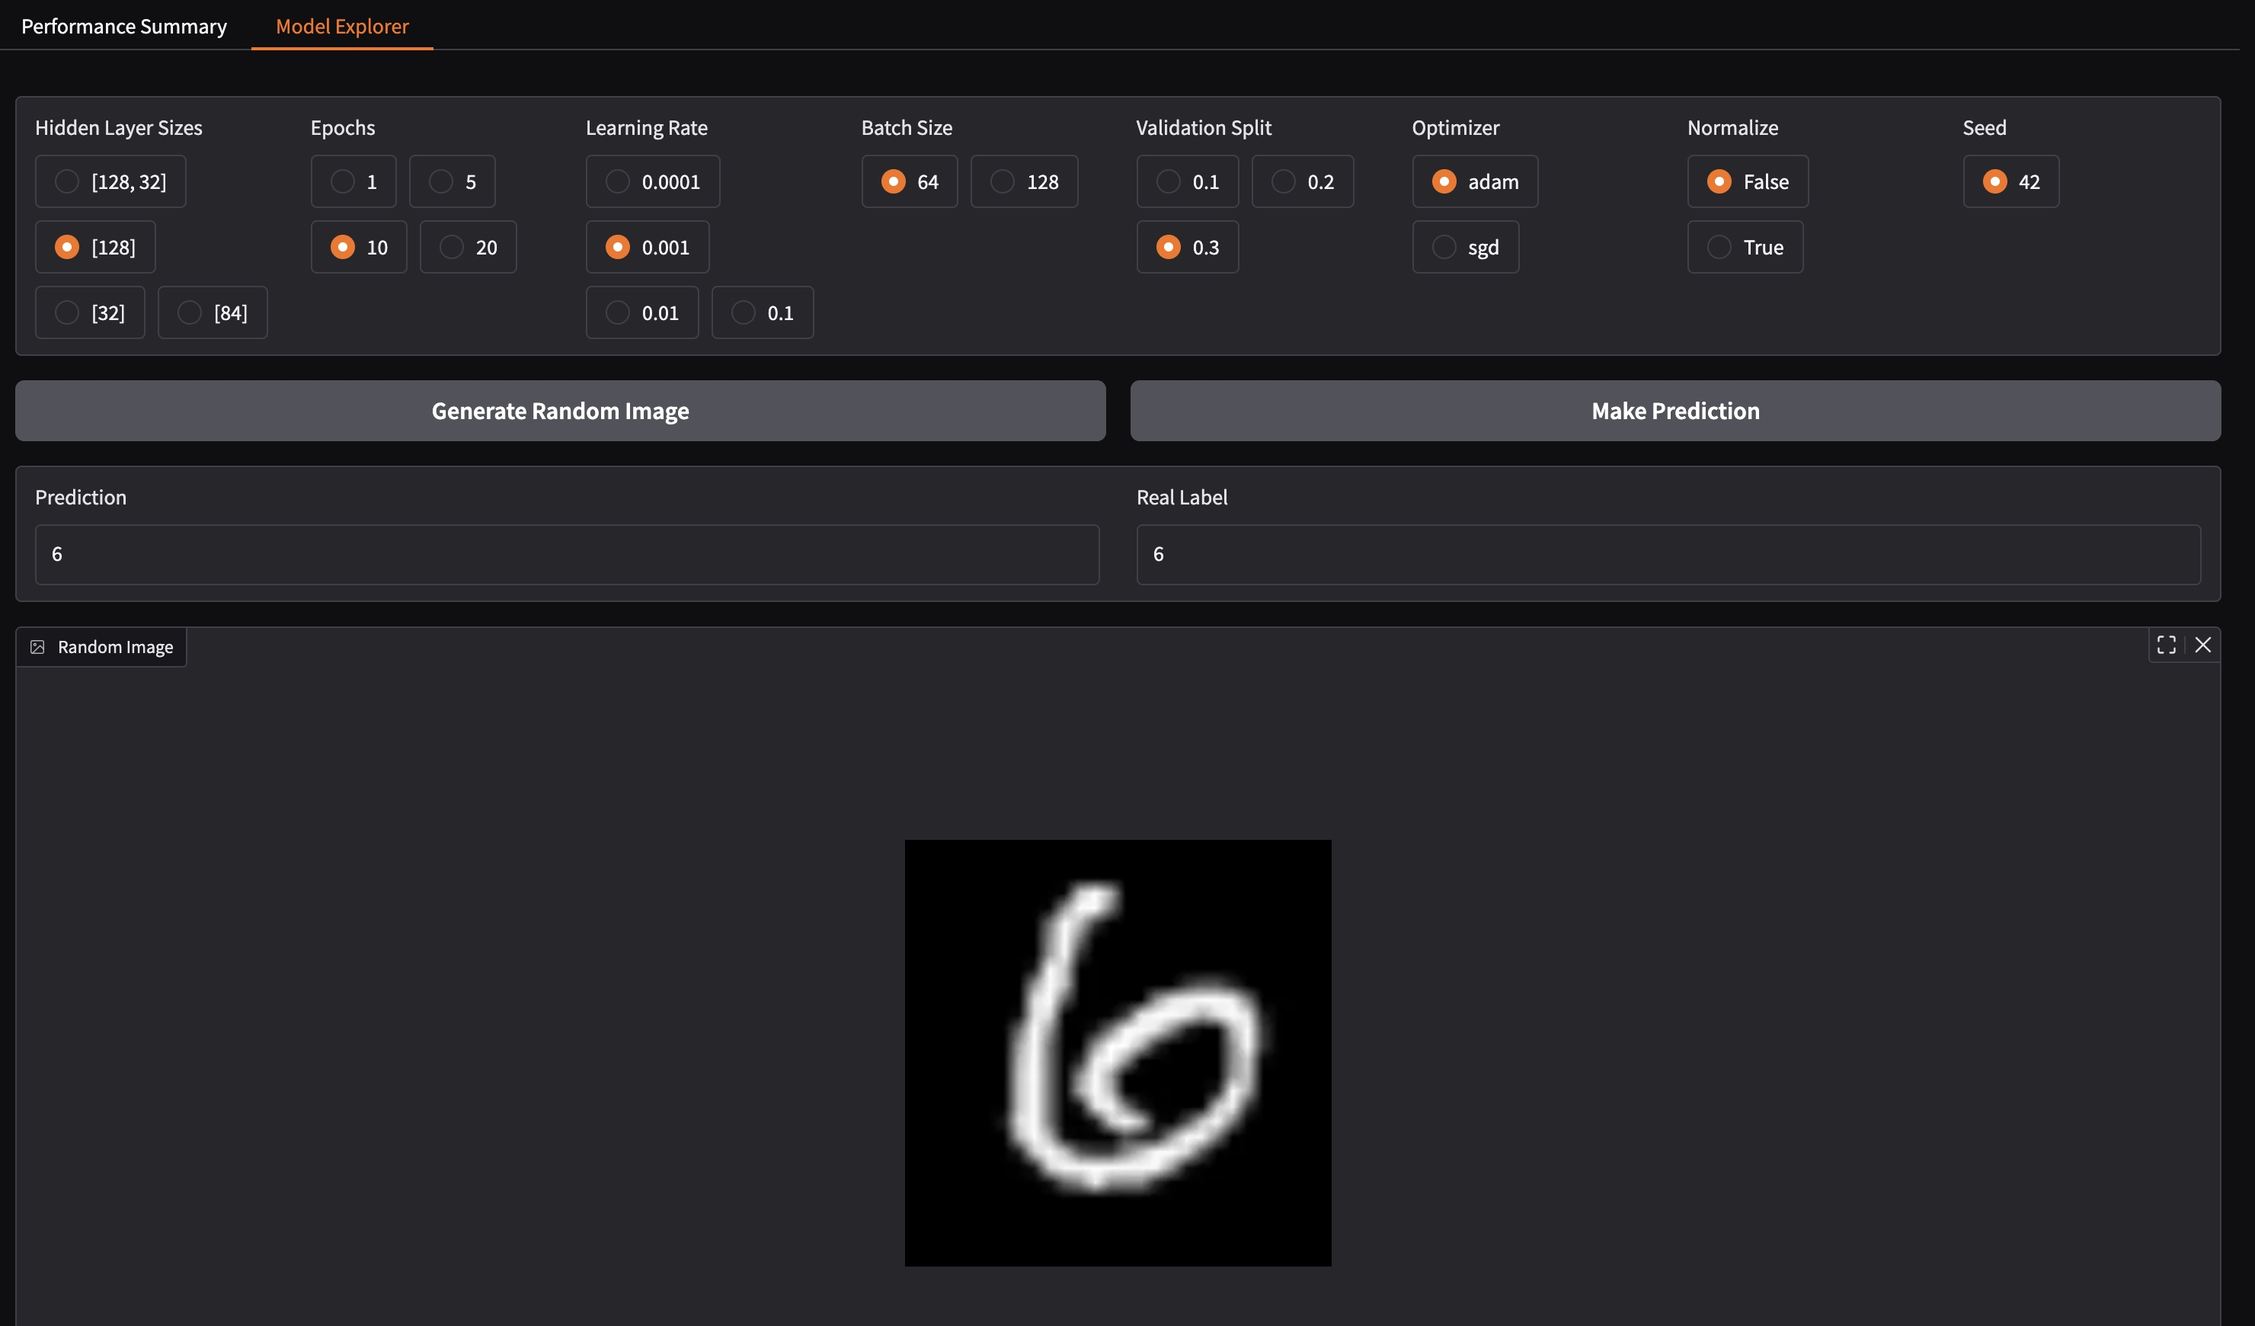
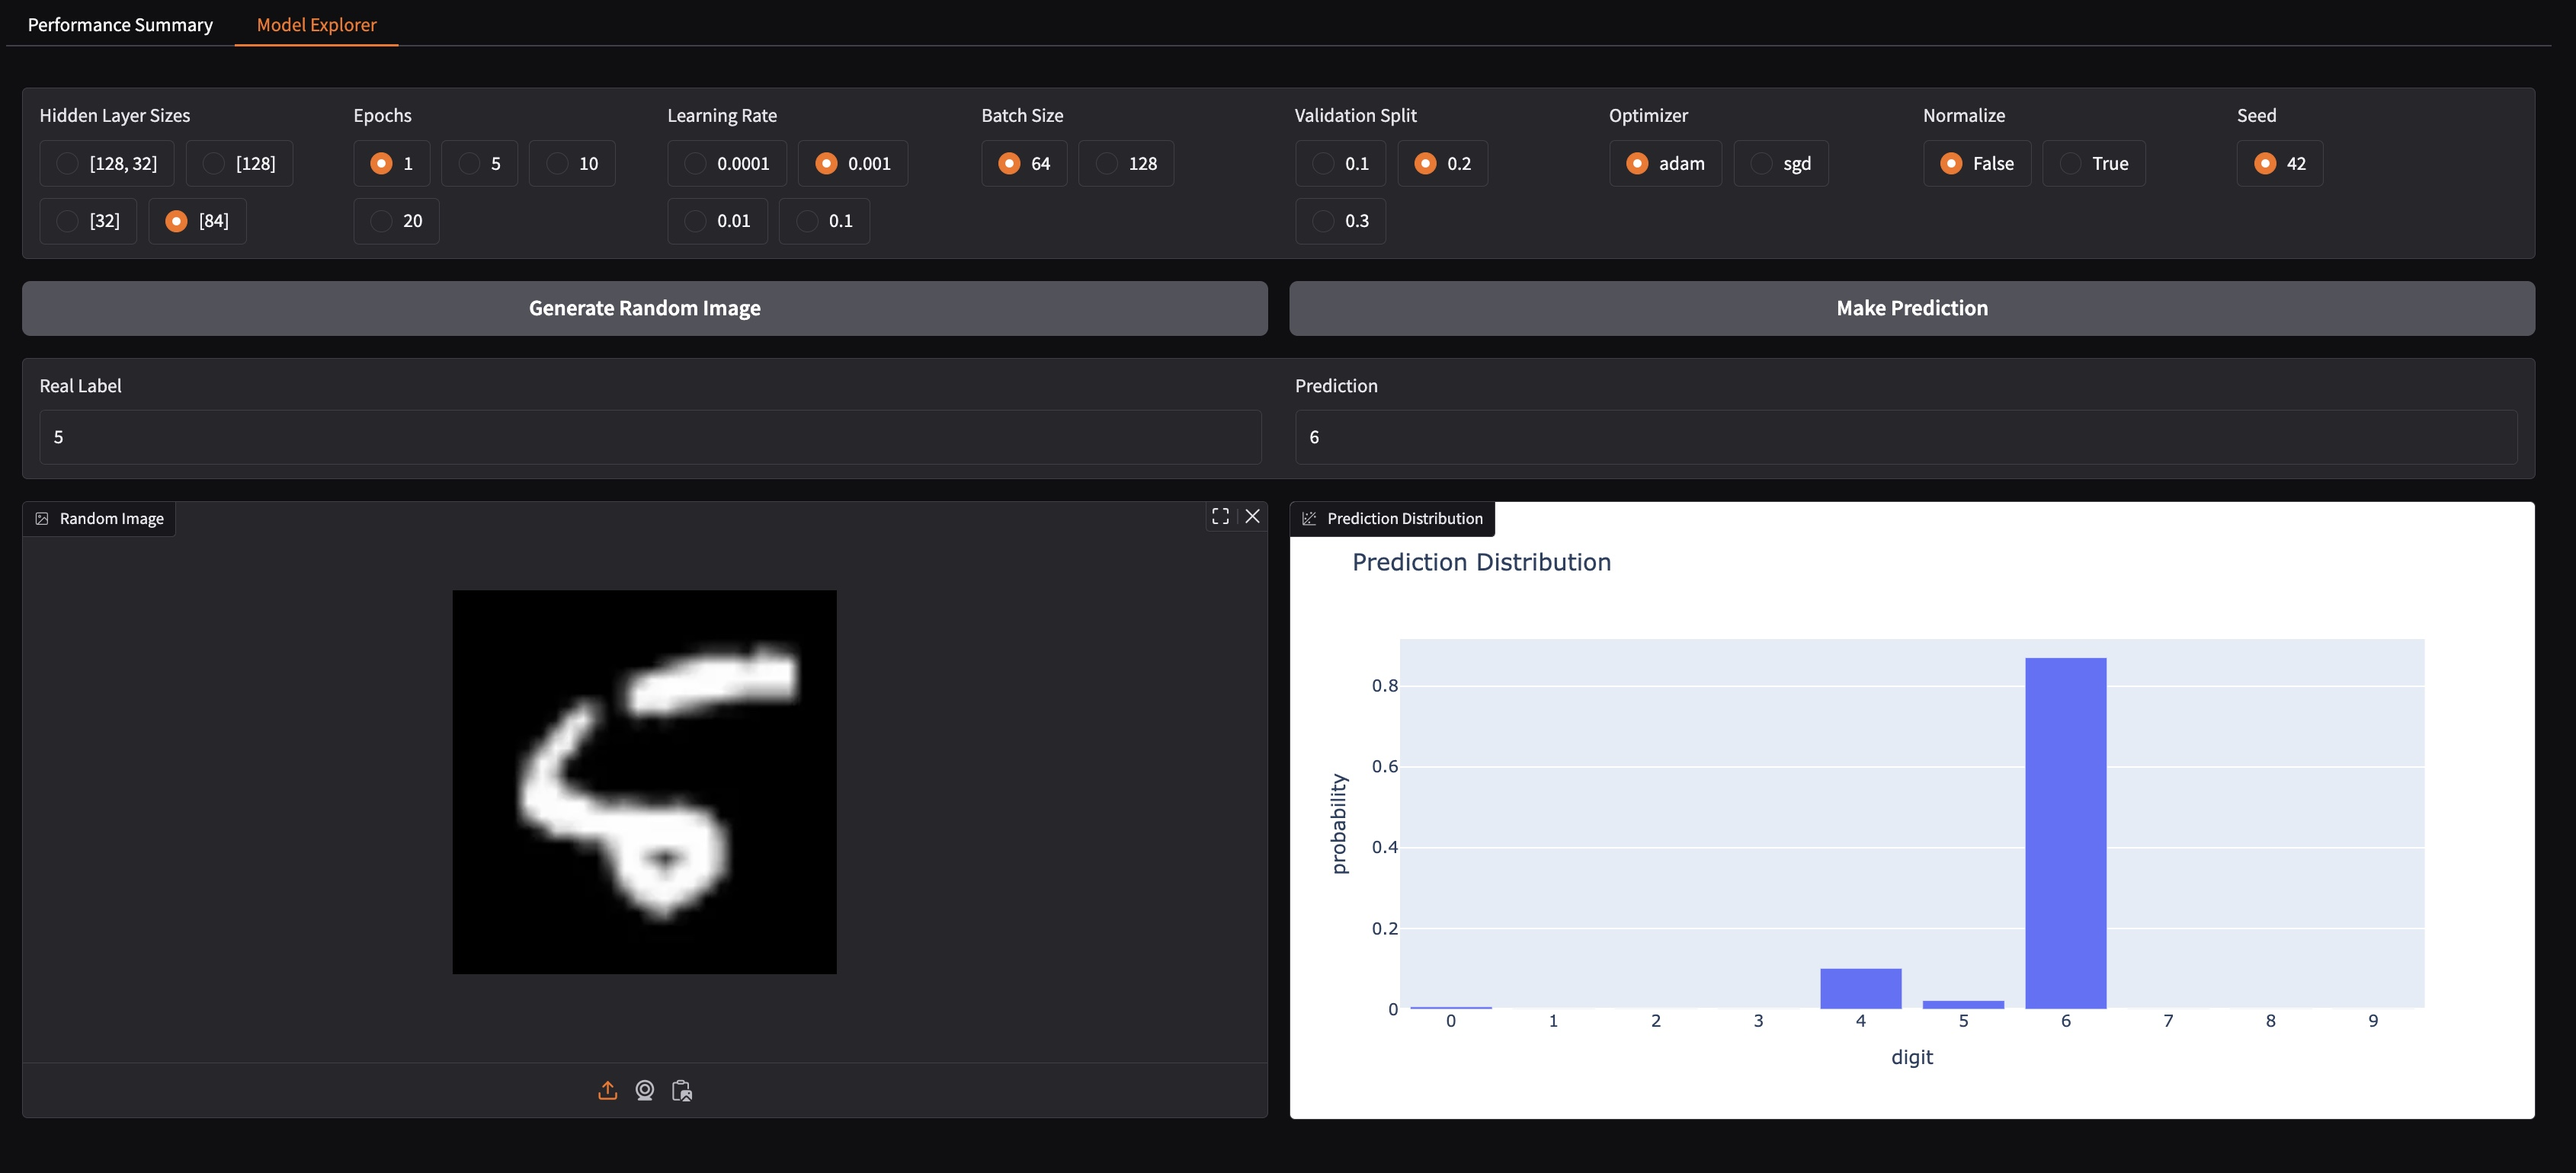
Add prediction distribution plot to model explorer and fix bug where predictions were > 9

diff --git a/app.py b/app.py
@@ -139,9 +139,9 @@ class ModelStore:
         x = transforms.Resize(size=(28 * scaling_factor, 28 * scaling_factor))(x)
         return x.squeeze().numpy(), y.squeeze().numpy(), None
 
-    def make_prediction(self, image, hls, epochs, lr, bs, wv, opt, norm, seed):
+    def make_prediction_dist(self, image, hls, epochs, lr, bs, wv, opt, norm, seed):
         """
-        Make a prediction on the provided image using the specified model.
+        Make prediction distribution for the provided image using the specified model.
         """
         hls_ints = [int(i) for i in hls.removeprefix('[').removesuffix(']').split(',')]
         hls_str = "-".join(str(i) for i in hls_ints)
@@ -160,7 +160,30 @@ class ModelStore:
 
         model.eval()
         with torch.no_grad():
-            return model(image).argmax().item()
+            return model(image)
+
+    def make_prediction_plot(self, image, hls, epochs, lr, bs, wv, opt, norm, seed):
+        """
+        Plot the distribution of predictions for the provided image using the specified model.
+        """
+        prediction = self.make_prediction_dist(image, hls, epochs, lr, bs, wv, opt, norm, seed)
+
+        prediction = prediction[0].numpy()
+        prediction_df = pd.DataFrame({
+            'digit': list(range(10)),
+            'probability': prediction
+        })
+        fig = px.bar(prediction_df, x='digit', y='probability', title="Prediction Distribution")
+        fig.update_layout(xaxis=dict(dtick=1))
+        return fig
+
+    def make_prediction(self, image, hls, epochs, lr, bs, wv, opt, norm, seed):
+        """
+        Make a specific prediction on the provided image using the specified model, and plot probability distribution.
+        """
+        prediction = self.make_prediction_dist(image, hls, epochs, lr, bs, wv, opt, norm, seed)[0].argmax().item()
+        pred_plot = self.make_prediction_plot(image, hls, epochs, lr, bs, wv, opt, norm, seed)
+        return prediction, pred_plot
 
 class App:
     """
@@ -220,15 +243,14 @@ class App:
                     image_button = gr.Button(value="Generate Random Image")
                     pred_button = gr.Button(value="Make Prediction")
                 with gr.Row():
-                    prediction = gr.Textbox(label="Prediction")
                     real_label = gr.Textbox(label="Real Label")
+                    prediction = gr.Textbox(label="Prediction")
                 with gr.Row():
-                    # Make an image to generate random from dataset using a button
-                    # Show prediction in a textbox below
-                    image = gr.Image(label="Random Image", width=600, height=600)
+                    image = gr.Image(label="Random Image", width=600, height=450)
+                    prob_plot = gr.Plot(label="Prediction Distribution", value=None)
 
                 image_button.click(self.model_store.get_random_image, inputs=[], outputs=[image, real_label, prediction])
-                pred_button.click(self.model_store.make_prediction, inputs=[image, hls_opts, epoch_opts, lr_opts, batch_opts, val_opts, opt_opts, norm_opts, seed_opts], outputs=prediction)
+                pred_button.click(self.model_store.make_prediction, inputs=[image, hls_opts, epoch_opts, lr_opts, batch_opts, val_opts, opt_opts, norm_opts, seed_opts], outputs=[prediction, prob_plot])
 
 
 
